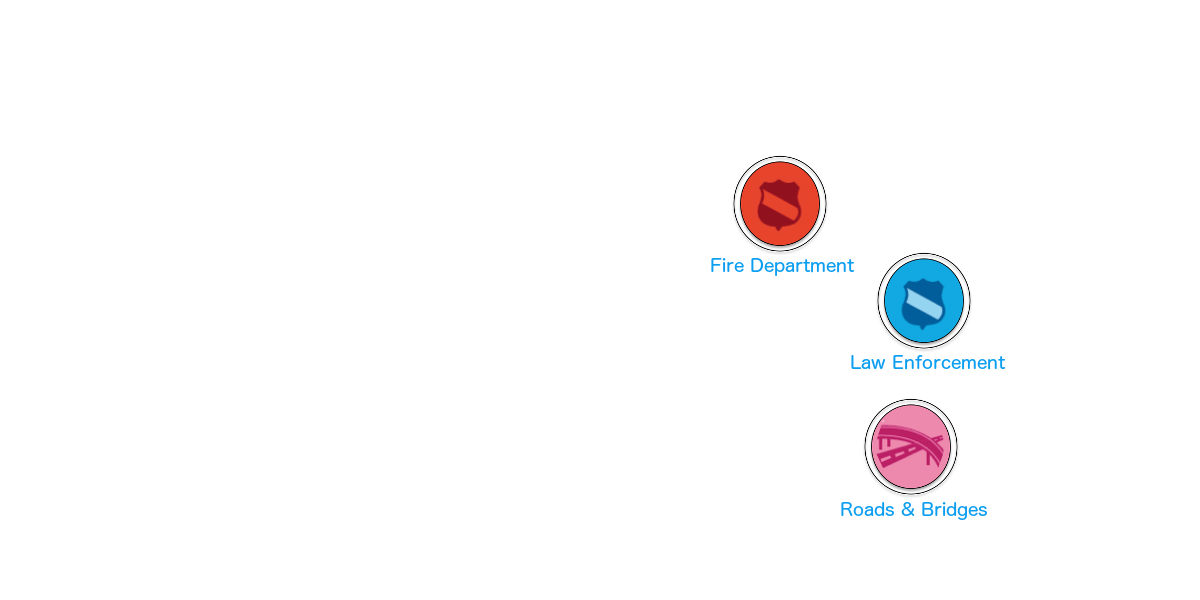
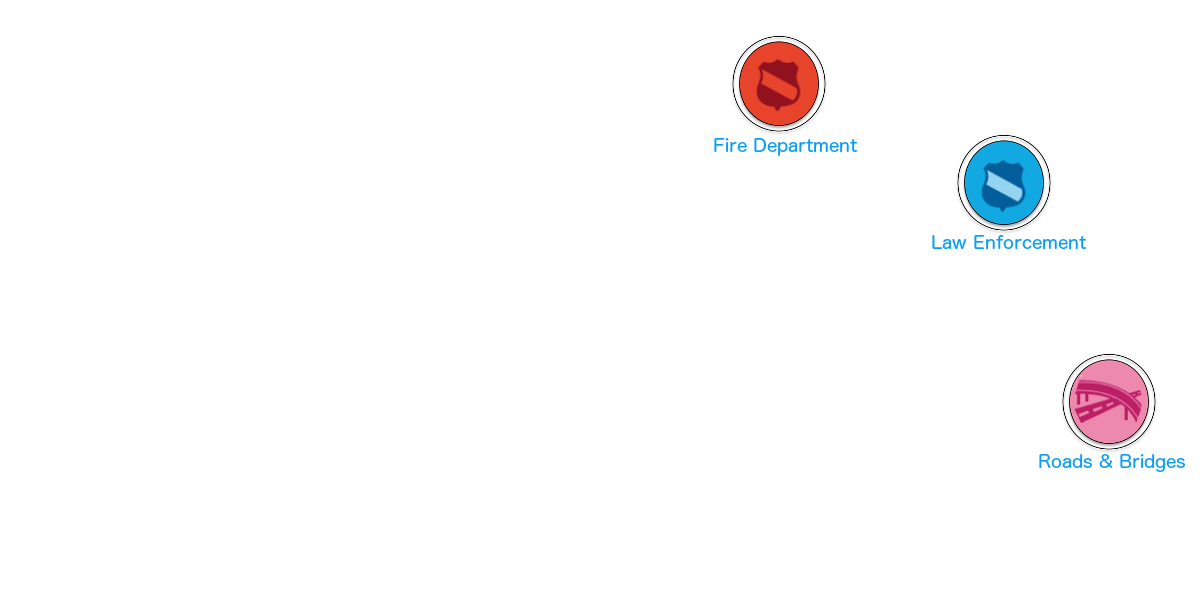
dddd

diff --git a/teamPres.html b/teamPres.html
@@ -121,7 +121,7 @@ function gotoPage(n){
       <img alt="Speakeasyis" src="https://speakeasy-production-assets.s3.amazonaws.com/assets/investors/speakeasyis-4d85e913581067c4771cbfb411e5ece7.png" />
     </div>
     
-     <div id="slide-6"  class="step slide_ourmarket">
+     <div id="slide-6"  class="step slide_ourmarket" data-x="-500" data-y="350" data-z="-1200" data-scale=".5">>
         <img alt="Problem" src="img/problem.png" />
         <div id="market_wrapper" >
 	        <div data-jmpress="zoom after 1000ms step" id="market_clubs"><img alt="Roads" src="img/problem1.png" /></div>
